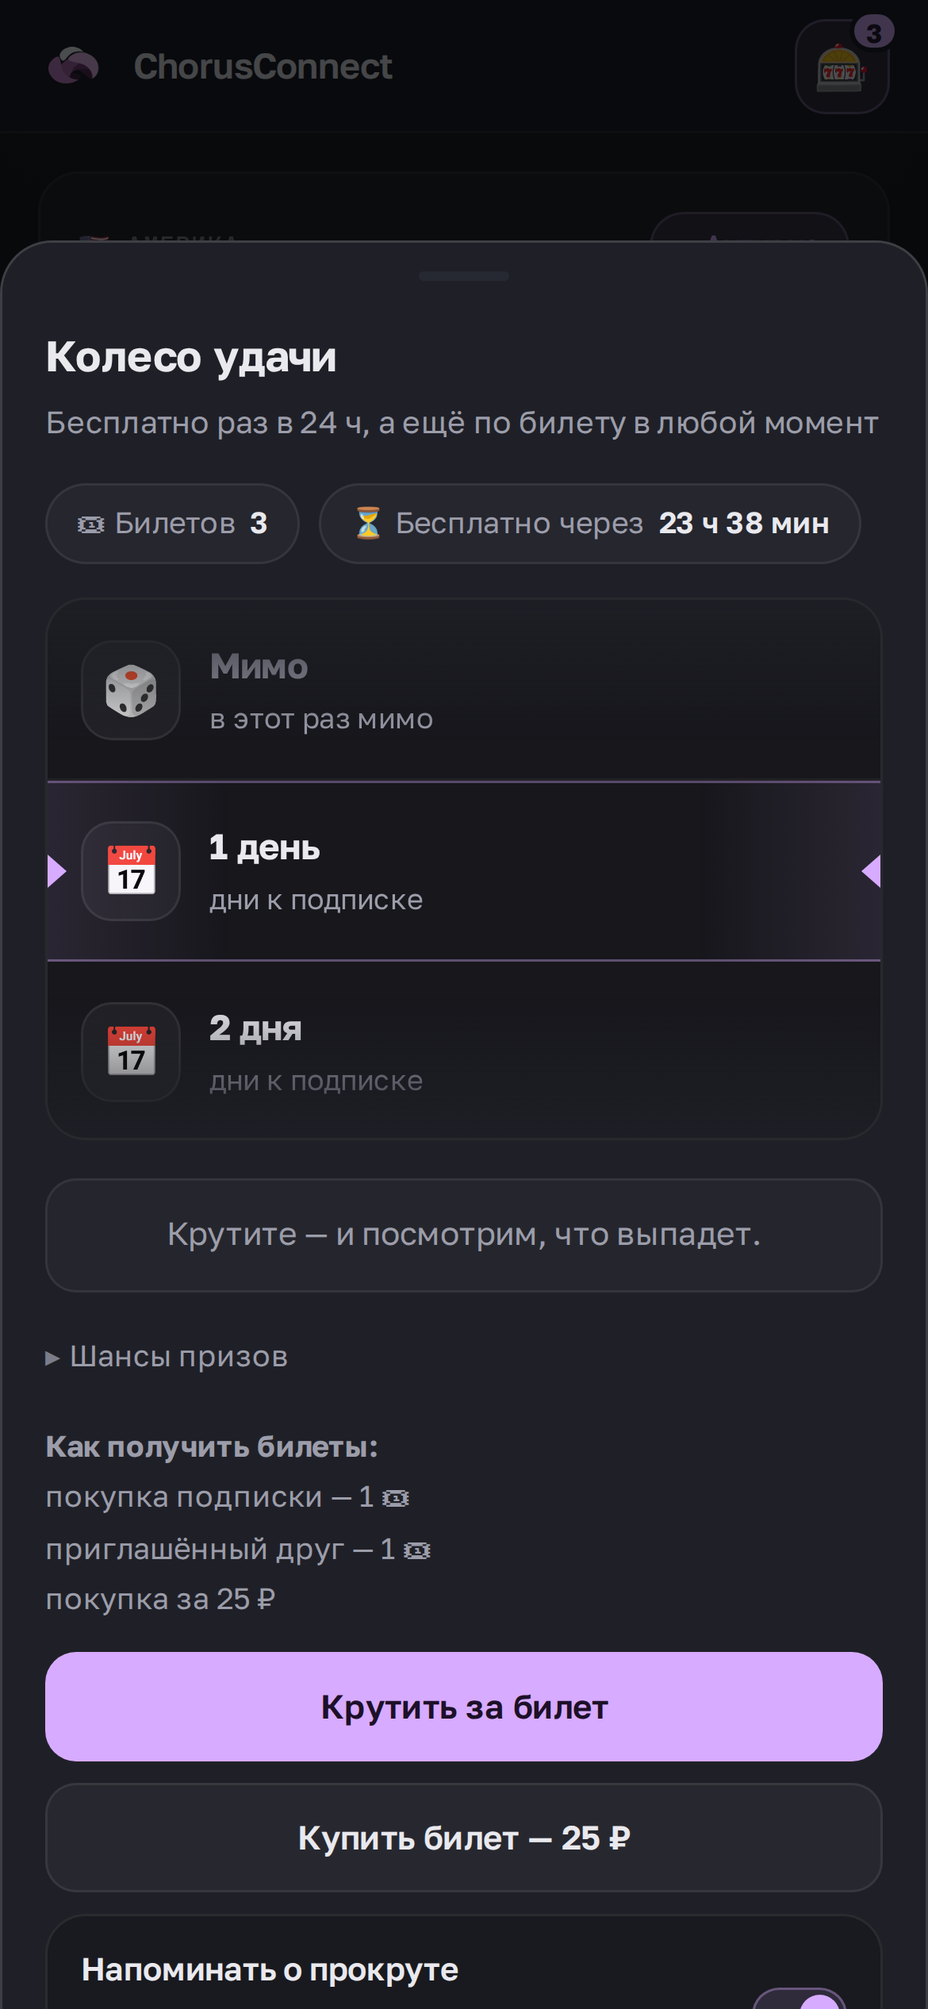
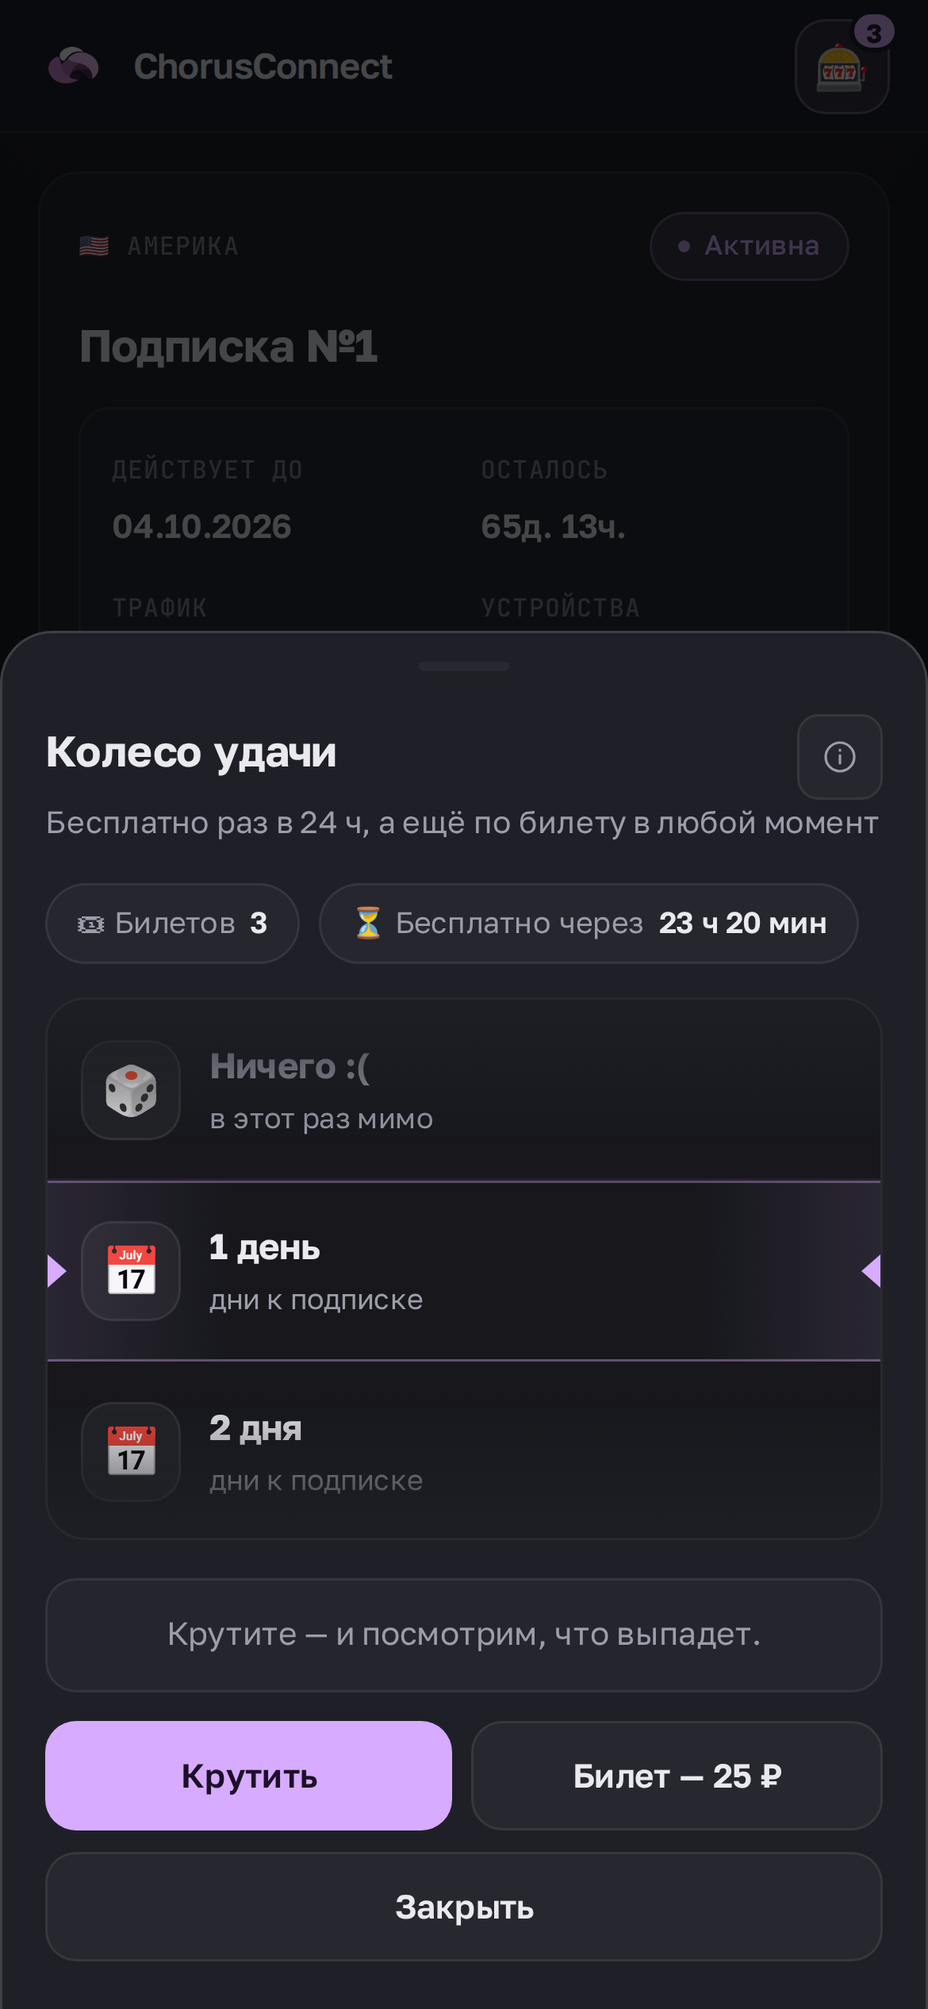
Fit the wheel on one screen and shorten the prize history
The prize card grew with every spin — twenty rows filled the whole
cabinet. It shows the three that matter, unclaimed ones first, and keeps
the rest behind a toggle with its own scroll. Blanks are gone from it
entirely: "missed" is not a prize, and in a list of winnings it only got
in the way. The admin's spin log still records them.

The wheel sheet no longer scrolls. Odds, where tickets come from and the
reminder switch moved to a second sheet behind an ⓘ in the header, the two
actions share a row, and the reel shrinks its cards on short screens. That
last part needed the card height to come from CSS rather than an inline
style, so the media query could win — and the spin now measures the card
instead of assuming 76px, or it would have stopped short of the prize on
exactly those screens.

Measured at 390×844, 360×780, 360×640 and 430×932: nothing scrolls
anywhere, and the reel still lands on the prize the server picked.

Claude-Session: https://claude.ai/code/session_01Sf76GMJ8AosKc6mK3v3vki

diff --git a/src/shop_bot/webapp/app.html b/src/shop_bot/webapp/app.html
@@ -230,6 +230,11 @@ h1,h2,h3{margin:0;font-weight:700;letter-spacing:-.011em}
 .sidenav__count{margin-left:auto;min-width:20px;height:20px;padding:0 6px;border-radius:99px;
   background:var(--accent);color:var(--accent-ink);font-size:11px;font-weight:700;display:grid;place-items:center}
 
+.wheel-title{display:flex;align-items:center;justify-content:space-between;gap:10px}
+.wheel-title h2{min-width:0}
+/* Лист колеса должен помещаться целиком: листать барабан, чтобы добраться
+   до кнопки, — худшее, что можно сделать с этим экраном. */
+.sheet--wheel{max-height:92dvh}
 .wheel-head{display:flex;gap:8px;flex-wrap:wrap;margin-bottom:14px}
 .wheel-chip{display:inline-flex;align-items:center;gap:6px;padding:7px 12px;border-radius:999px;
   border:1px solid var(--line);background:rgba(236,238,242,.035);font-size:12.5px;color:var(--dim)}
@@ -265,6 +270,23 @@ h1,h2,h3{margin:0;font-weight:700;letter-spacing:-.011em}
   opacity:.85}
 .reel.is-spinning .reel__window{border-color:var(--accent);box-shadow:0 0 22px rgba(215,171,255,.14) inset}
 
+@media (max-height:760px){
+  .sheet--wheel{padding-top:6px}
+  .sheet--wheel .sheet__sub{display:none}
+  .reel{--reel-card:64px}
+  .wheel-result{padding:10px 12px;font-size:13px;margin-top:12px}
+  .wheel-head{margin-bottom:10px}
+}
+@media (max-height:670px){
+  .reel{--reel-card:54px}
+  .reel__icon{width:34px;height:34px;font-size:17px}
+  .reel__body b{font-size:13.5px}
+  .reel__body span{font-size:11px}
+}
+@media (max-width:380px){
+  .wheel-chip{padding:6px 10px;font-size:11.5px}
+}
+
 
 .wheel-result{margin:16px 0 0;padding:13px 14px;border-radius:var(--r-md);text-align:center;
   border:1px solid var(--line);background:rgba(236,238,242,.03);font-size:13.5px;color:var(--dim);min-height:22px}
@@ -283,6 +305,12 @@ h1,h2,h3{margin:0;font-weight:700;letter-spacing:-.011em}
 .wheel-odds__row i{font-style:normal;width:18px;text-align:center;flex:0 0 auto}
 .wheel-odds__row b{margin-left:auto;color:var(--text);font-weight:600;font-family:var(--mono);font-size:11.5px}
 .wheel-earn{margin-top:12px;font-size:12.5px;color:var(--dim);line-height:1.7}
+.prizes-more{margin-top:4px}
+.prizes-more summary{cursor:pointer;list-style:none;padding:9px 0 2px;font-size:12.5px;color:var(--dim)}
+.prizes-more summary::-webkit-details-marker{display:none}
+.prizes-more summary::before{content:'▸ ';color:var(--faint)}
+.prizes-more[open] summary::before{content:'▾ '}
+.prizes-scroll{max-height:232px;overflow-y:auto;overscroll-behavior:contain}
 .prize-row{display:flex;align-items:center;gap:11px;padding:10px 0}
 .prize-row + .prize-row{border-top:1px solid var(--line)}
 .prize-row__main{min-width:0;flex:1}
@@ -678,6 +706,7 @@ h1,h2,h3{margin:0;font-weight:700;letter-spacing:-.011em}
 <symbol id="ic-x" viewBox="0 0 24 24"><path d="M5 5l14 14"/><path d="M19 5L5 19"/></symbol>
 <symbol id="ic-chevron-left" viewBox="0 0 24 24"><path d="M15 5l-7 7 7 7"/></symbol>
 <symbol id="ic-chevron-right" viewBox="0 0 24 24"><path d="M9 5l7 7-7 7"/></symbol>
+<symbol id="ic-info" viewBox="0 0 24 24"><circle cx="12" cy="12" r="9"/><path d="M12 11v5M12 7.6v.4"/></symbol>
 <symbol id="ic-shield" viewBox="0 0 24 24"><path d="M12 3l7 3v6c0 5-3.5 7.5-7 9-3.5-1.5-7-4-7-9V6l7-3Z"/></symbol>
 <symbol id="ic-send" viewBox="0 0 24 24"><path d="M4 12L20 4 13 20l-2-7-7-1Z"/></symbol>
 <symbol id="ic-paperclip" viewBox="0 0 24 24"><path d="M8 12l6-6a3 3 0 1 1 4 4l-8 8a5 5 0 1 1-7-7l7-7"/></symbol>
@@ -858,19 +887,36 @@ h1,h2,h3{margin:0;font-weight:700;letter-spacing:-.011em}
 </div>
 
 <div class="modal" id="wheelModal" data-modal>
-  <div class="sheet">
+  <div class="sheet sheet--wheel">
     <div class="sheet__handle"></div>
-    <h2>Колесо удачи</h2>
+    <div class="wheel-title">
+      <h2>Колесо удачи</h2>
+      <button class="icon-btn" type="button" title="Шансы и билеты" onclick="openWheelInfo()">
+        <svg class="icon"><use href="#ic-info"/></svg>
+      </button>
+    </div>
     <div class="sheet__sub" id="wheelSub">Бесплатный прокрут</div>
     <div id="wheelBody"><div class="card skeleton" style="min-height:200px"></div></div>
-    <button class="btn btn--primary btn--block is-hidden" id="wheelSpinBtn" style="margin-top:12px" onclick="spinWheel()">Крутить</button>
-    <button class="btn btn--ghost btn--block is-hidden" id="wheelBuyBtn" style="margin-top:9px" onclick="buyWheelTicket()">Купить билет</button>
-    <label class="card switch-row is-hidden" id="wheelNotifyRow" style="margin-top:9px">
+    <div class="btn-row" id="wheelActions" style="margin-top:12px">
+      <button class="btn btn--primary is-hidden" id="wheelSpinBtn" onclick="spinWheel()">Крутить</button>
+      <button class="btn btn--ghost is-hidden" id="wheelBuyBtn" onclick="buyWheelTicket()">Купить билет</button>
+    </div>
+    <button class="btn btn--ghost btn--block" style="margin-top:9px" onclick="closeModal('wheelModal')">Закрыть</button>
+  </div>
+</div>
+
+<div class="modal" id="wheelInfoModal" data-modal>
+  <div class="sheet">
+    <div class="sheet__handle"></div>
+    <h2>Шансы и билеты</h2>
+    <div class="sheet__sub">Что стоит на барабане и как получить больше попыток</div>
+    <div id="wheelInfoBody"></div>
+    <label class="card switch-row" id="wheelNotifyRow" style="margin-top:12px">
       <span class="switch-row__main"><b>Напоминать о прокруте</b><span>Сообщение в боте, когда снова можно крутить</span></span>
       <input type="checkbox" id="wheelNotifyInput" onchange="toggleWheelNotify(this.checked)">
       <span class="switch"></span>
     </label>
-    <button class="btn btn--ghost btn--block" style="margin-top:9px" onclick="closeModal('wheelModal')">Закрыть</button>
+    <button class="btn btn--ghost btn--block" style="margin-top:9px" onclick="closeModal('wheelInfoModal')">Закрыть</button>
   </div>
 </div>
 
@@ -1399,6 +1445,7 @@ function pickAddon(keyId, devices, price){
 /* ===== призы из колеса ===== */
 /* Невыданный приз живёт ограниченное время, поэтому в списке всегда видно
    не только что выпало, но и до какого числа это можно забрать. */
+const PRIZES_VISIBLE = 3;
 async function loadPrizes(){
   try{
     const d = await api('/api/wheel/prizes');
@@ -1406,7 +1453,15 @@ async function loadPrizes(){
     toggle('prizesCard', !items.length);
     if(!items.length) return;
     state.prizeKeys = d.keys || [];
-    $('prizesList').innerHTML = items.map(prizeRowHtml).join('');
+    /* Показываем только верх списка: у постоянного игрока призов набирается
+       столько, что карточка занимала весь кабинет. Остальное — под
+       раскрывашкой с собственным скроллом. */
+    const head = items.slice(0, PRIZES_VISIBLE).map(prizeRowHtml).join('');
+    const rest = items.slice(PRIZES_VISIBLE);
+    $('prizesList').innerHTML = head + (rest.length
+      ? `<details class="prizes-more"><summary>Ещё ${rest.length} ${plural(rest.length,'приз','приза','призов')}</summary>
+           <div class="prizes-scroll">${rest.map(prizeRowHtml).join('')}</div></details>`
+      : '');
   }catch(e){ toggle('prizesCard', true); }
 }
 const PRIZE_STATUS = {
@@ -1486,7 +1541,7 @@ function reelHtml(prizes){
      прокрута барабан не выглядел пустым */
   const cards = [];
   for(let i = 0; i < REEL_VISIBLE + 1; i++) cards.push(prizes[i % prizes.length]);
-  return `<div class="reel" id="wheelReel" style="--reel-card:${REEL_CARD_H}px">
+  return `<div class="reel" id="wheelReel">
       <div class="reel__strip" id="wheelStrip">${cards.map(reelCardHtml).join('')}</div>
       <div class="reel__fade"></div>
       <div class="reel__window"></div>
@@ -1498,6 +1553,9 @@ function reelSpinTo(prizes, winner){
   const strip = $('wheelStrip');
   const reel = $('wheelReel');
   if(!strip) return Promise.resolve();
+  /* высоту карточки берём из вёрстки: на низких экранах она ужимается
+     медиазапросом, и фиксированное число промахнулось бы мимо приза */
+  const cardH = Math.round(reel.querySelector('.reel__card')?.getBoundingClientRect().height) || REEL_CARD_H;
 
   const cards = [];
   for(let i = 0; i < REEL_RUNWAY; i++) cards.push(reelFiller(prizes));
@@ -1518,7 +1576,7 @@ function reelSpinTo(prizes, winner){
      строка сверху, поэтому нужную карточку доводим до неё, вычтя одну.
      Раньше здесь стояла длина ленты, и барабан вставал на карточку после
      выигрыша — показывал один приз, а начислялся другой. */
-  strip.style.transform = `translateY(-${(winnerIndex - 1) * REEL_CARD_H}px)`;
+  strip.style.transform = `translateY(-${(winnerIndex - 1) * cardH}px)`;
 
   return new Promise(resolve => setTimeout(() => {
     reel.classList.remove('is-spinning');
@@ -1529,7 +1587,7 @@ function reelSpinTo(prizes, winner){
 async function openWheel(){
   openModal('wheelModal');
   $('wheelBody').innerHTML = '<div class="card skeleton" style="min-height:200px"></div>';
-  ['wheelSpinBtn','wheelBuyBtn','wheelNotifyRow'].forEach(id => toggle(id, true));
+  toggle('wheelActions', true);
   try{
     const d = await api('/api/wheel/state');
     if(!d.ok) throw new Error(d.error || 'Колесо недоступно');
@@ -1550,10 +1608,12 @@ function wheelChips(d){
 }
 function wheelEarnHtml(d){
   const ways = [];
-  if(d.tickets_per_purchase) ways.push(`покупка подписки — ${d.tickets_per_purchase} 🎟`);
-  if(d.tickets_per_referral) ways.push(`приглашённый друг — ${d.tickets_per_referral} 🎟`);
-  if(Number(d.ticket_price) > 0) ways.push(`покупка за ${money(d.ticket_price)}`);
-  return ways.length ? `<div class="wheel-earn"><b>Как получить билеты:</b><br>${ways.map(esc).join('<br>')}</div>` : '';
+  if(d.tickets_per_purchase) ways.push(`🛒 покупка подписки — ${d.tickets_per_purchase} 🎟`);
+  if(d.tickets_per_referral) ways.push(`🤝 приглашённый друг — ${d.tickets_per_referral} 🎟`);
+  if(Number(d.ticket_price) > 0) ways.push(`💰 покупка за ${money(d.ticket_price)}`);
+  if(!ways.length) return '';
+  return `<div class="section-label" style="margin-top:18px">Как получить билеты</div>`
+       + `<div class="wheel-earn">${ways.map(esc).join('<br>')}</div>`;
 }
 function renderWheel(d, resultHtml){
   const prizes = wheelPrizes(d.prizes || []);
@@ -1561,23 +1621,31 @@ function renderWheel(d, resultHtml){
   $('wheelSub').textContent = d.enabled
     ? `Бесплатно раз в ${d.cooldown_hours} ч, а ещё по билету в любой момент`
     : (d.note || 'Колесо выключено');
+  /* Шансы и способы добыть билет уехали в отдельный лист: вместе с ними
+     колесо не помещалось на экран и его приходилось листать. */
   $('wheelBody').innerHTML = wheelChips(d)
     + reelHtml(prizes)
-    + `<div class="wheel-result" id="wheelResult">${resultHtml || 'Крутите — и посмотрим, что выпадет.'}</div>`
-    + `<details class="wheel-odds"><summary>Шансы призов</summary>${
-        prizes.map(x => `<div class="wheel-odds__row"><i>${prizeFace(x).icon}</i>${esc(x.label)}<b>${x.chance.toFixed(1)}%</b></div>`).join('')
-      }</details>`
-    + wheelEarnHtml(d);
+    + `<div class="wheel-result" id="wheelResult">${resultHtml || 'Крутите — и посмотрим, что выпадет.'}</div>`;
 
   const spin = $('wheelSpinBtn');
   toggle('wheelSpinBtn', !d.can_spin);
-  if(d.can_spin) spin.textContent = d.source === 'free' ? 'Крутить бесплатно' : 'Крутить за билет';
+  if(d.can_spin) spin.textContent = 'Крутить';
   spin.disabled = false;
   toggle('wheelBuyBtn', !(Number(d.ticket_price) > 0));
-  $('wheelBuyBtn').textContent = `Купить билет — ${money(d.ticket_price)}`;
+  $('wheelBuyBtn').textContent = `Билет — ${money(d.ticket_price)}`;
   $('wheelBuyBtn').disabled = false;
-  toggle('wheelNotifyRow', false);
+  toggle('wheelActions', !(d.can_spin || Number(d.ticket_price) > 0));
+}
+/* второй лист: шансы, источники билетов и напоминания */
+function openWheelInfo(){
+  const d = state.wheel || {};
+  const prizes = state.wheelPrizes || wheelPrizes(d.prizes || []);
+  $('wheelInfoBody').innerHTML =
+    `<div class="section-label" style="margin-top:14px">Что стоит на барабане</div>`
+    + prizes.map(x => `<div class="wheel-odds__row"><i>${prizeFace(x).icon}</i>${esc(x.label)}<b>${x.chance.toFixed(1)}%</b></div>`).join('')
+    + wheelEarnHtml(d);
   $('wheelNotifyInput').checked = !!d.notify;
+  openModal('wheelInfoModal');
 }
 /* выбор подписки для выигранных дней */
 function renderWheelChoice(prize, keys){
@@ -1590,7 +1658,7 @@ function renderWheelChoice(prize, keys){
         <span class="wheel-key__main"><b>${esc(k.host_name || 'Подписка')}</b><span>действует до ${esc(k.expiry_text || '—')}</span></span>
         <svg class="icon icon--sm" style="color:var(--faint)"><use href="#ic-chevron-right"/></svg>
       </button>`).join('')}</div>`;
-  ['wheelSpinBtn','wheelBuyBtn','wheelNotifyRow'].forEach(id => toggle(id, true));
+  toggle('wheelActions', true);
 }
 async function claimWheelDays(keyId, spinId){
   try{
@@ -1649,7 +1717,7 @@ async function spinWheel(){
     const st = await api('/api/wheel/state');
     state.wheel = st;
     toggle('wheelSpinBtn', !st.can_spin);
-    if(st.can_spin) btn.textContent = st.source === 'free' ? 'Крутить бесплатно' : 'Крутить за билет';
+    if(st.can_spin) btn.textContent = 'Крутить';
     btn.disabled = false;
     refreshWheelButton(st);
   }catch(e){

diff --git a/src/shop_bot/modules/fortune_wheel.py b/src/shop_bot/modules/fortune_wheel.py
@@ -190,12 +190,21 @@ def pending_prizes(user_id: int) -> list[dict]:
 
 
 def history(user_id: int, limit: int = 20) -> list[dict]:
-    """История призов: что выпало, что забрано, что сгорело."""
+    """История призов: что забрано, что ждёт и что сгорело.
+
+    Пустые сектора сюда не попадают: «Мимо» — это не приз, а в списке
+    выигрышей они только мешают искать настоящие. В журнале прокрутов у
+    администратора они остаются.
+    """
     now = _now()
     database.expire_wheel_prizes(now.strftime(TIME_FORMAT))
-    rows = database.get_user_wheel_history(user_id, limit) or []
+    rows = database.get_user_wheel_history(user_id, limit * 3) or []
     out = []
     for row in rows:
+        if (row.get("prize_type") or PRIZE_NOTHING) == PRIZE_NOTHING or float(row.get("amount") or 0) <= 0:
+            continue
+        if len(out) >= limit:
+            break
         created = _parse(row.get("created_at"))
         out.append({
             "spin_id": row.get("spin_id"),
@@ -208,6 +217,8 @@ def history(user_id: int, limit: int = 20) -> list[dict]:
             "expires_text": (_parse(row.get("expires_at")) or created or now).strftime("%d.%m.%Y")
                             if row.get("expires_at") else "",
         })
+    # невыданные наверх: по ним нужно действие, остальное — просто память
+    out.sort(key=lambda p: (p["status"] != "pending", -int(p["spin_id"] or 0)))
     return out
 
 

diff --git a/README.md b/README.md
@@ -49,7 +49,7 @@
 
 Сектор даёт дни к подписке, рубли на баланс, персональный купон на скидку или ничего. Купон создаётся одноразовым, с датой сгорания и подписью, кому и за какой сектор он выдан.
 
-Дни не падают куда попало и не пропадают, если подписки ещё нет: приз ложится в историю кабинета и ждёт там владельца. Забрать его можно в течение 14 дней (срок настраивается), выбрав подписку, к которой он добавится. В кабинете видно всё: что выпало, что забрано и что сгорело.
+Дни не падают куда попало и не пропадают, если подписки ещё нет: приз ложится в историю кабинета и ждёт там владельца. Забрать его можно в течение 14 дней (срок настраивается), выбрав подписку, к которой он добавится. В истории показываются только выигрыши — пустые сектора туда не попадают, — и первыми идут те, что ещё ждут действия.
 
 В мини-аппе призы проматываются вертикальной лентой и тормозят на выпавшем — на телефоне такая карточка читается лучше круга, где подпись приходится втискивать в сектор шириной в палец. Что мелькает по дороге, выбирается по тем же весам, но результат приходит с сервера.
 
